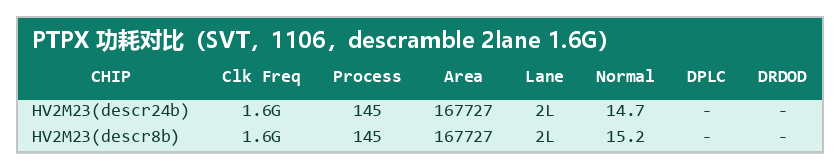
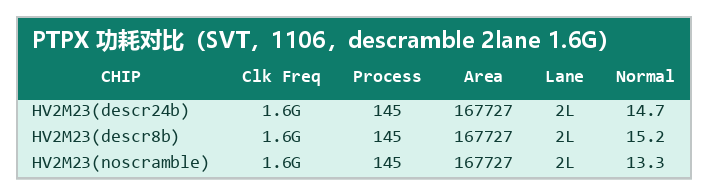
memory-power: descramble chart — drop DPLC/DRDOD columns, add noscramble 13.3 mW row

diff --git a/synthesis-integration-flow-guide/memory-power.html b/synthesis-integration-flow-guide/memory-power.html
@@ -491,6 +491,7 @@ HV2M23_digital_top        1.17e-02  2.58e-03  1.76e-06  1.43e-02  100.0
 |------|----------|-----------|---------|-------------|------|
 | `2lane_descramble24b_1106` | - | - | - | **14.7 mW** | descramble 24b（2lane 1.6G；细分待补） |
 | `2lane_descramble8b_1106` | - | - | - | **15.2 mW** | descramble 8b（2lane 1.6G；细分待补） |
+| `2lane_noscramble_1106` | - | - | - | **13.3 mW** | noscramble（2lane 1.6G；细分待补） |
 
 ![PTPX 功耗对比（SVT，1106，descramble 2lane 1.6G）](./image/power_compare_descramble_1106.png)
 
@@ -502,7 +503,7 @@ HV2M23_digital_top        1.17e-02  2.58e-03  1.76e-06  1.43e-02  100.0
 
 ![功耗对比全览（PowerPro / PTPX，LVT → SVT）](./image/power_compare_vertical.png)
 
-- HV2M23 SVT 当前值与本章 §2.3 的 0812 六组实测一致（1L 14.3 / 15.0 / 15.0、2L 15.5 / 16.1 / 17.9 mW）；1106 新增 descramble 2lane 1.6G 实测（24b 14.7 / 8b 15.2 mW，见 §2.3 descramble 对比图）；
+- HV2M23 SVT 当前值与本章 §2.3 的 0812 六组实测一致（1L 14.3 / 15.0 / 15.0、2L 15.5 / 16.1 / 17.9 mW）；1106 新增 descramble 2lane 1.6G 实测（24b 14.7 / 8b 15.2 / noscramble 13.3 mW，见 §2.3 descramble 对比图）；
 - 造图脚本：`HV2M23/back_ppt/gen_power_compare_vertical.py`（数据源为 0720~0814 报表 Excel 汇总，与 BE Review PPT v30 对比页同源同图）。
 
 </script>
